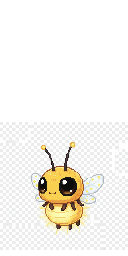
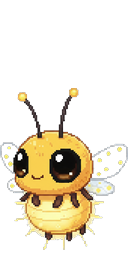
fix: 프로필 편집 저장 수정 + 호비 이미지 업데이트
- project 컬럼(string) 기준으로 읽기/쓰기 통일 (edit, detail 페이지)
- 상세페이지 캐시버스트 URL 파라미터 수정 (?t → &t)
- 관리자 is_admin 컬럼 + Storage RLS 정책 SQL 추가
- 호비 NPC 아바타 이미지 갱신

Changed region(s): [[0.0, 0.3438, 1.0, 0.9688], [0.7188, 0.9062, 0.75, 0.9375], [0.6562, 0.9375, 0.6875, 0.9688]]

diff --git a/frontend/app/dogam/[id]/page.tsx b/frontend/app/dogam/[id]/page.tsx
@@ -23,7 +23,6 @@ interface Profile {
   position: string
   field: string
   project: string
-  projects: string[]
   tmi: string
   tech_stack: string[]
   status_message: string
@@ -90,13 +89,9 @@ export default function DogamDetailPage() {
   const isOwnProfile = currentUserId === profile?.id
   const canEdit = isOwnProfile || isAdmin
 
-  // Resolve projects
-  const resolvedProjects: string[] = profile
-    ? Array.isArray(profile.projects) && profile.projects.length > 0
-      ? profile.projects
-      : profile.project
-        ? [profile.project]
-        : []
+  // Resolve projects (DB stores as comma-separated string)
+  const resolvedProjects: string[] = profile?.project
+    ? profile.project.split(', ').filter(Boolean)
     : []
 
   const emailPrefix = profile?.email ? getEmailPrefix(profile.email) : ''
@@ -104,7 +99,7 @@ export default function DogamDetailPage() {
   // Image URL with cache busting
   const getImgUrl = useCallback((dir: string) => {
     const url = getCharacterImageUrl(emailPrefix, dir)
-    return cacheBust ? `${url}?t=${cacheBust}` : url
+    return cacheBust ? `${url}&t=${cacheBust}` : url
   }, [emailPrefix, cacheBust])
 
   // Direction remapping handlers

diff --git a/frontend/app/dogam/edit/page.tsx b/frontend/app/dogam/edit/page.tsx
@@ -65,10 +65,8 @@ export default function DogamEditPage() {
       if (data) {
         setProfile(data)
         setField(data.field || '')
-        if (Array.isArray(data.projects)) {
-          setProjects(data.projects)
-        } else if (data.project && typeof data.project === 'string') {
-          setProjects(data.project ? [data.project] : [])
+        if (data.project && typeof data.project === 'string') {
+          setProjects(data.project.split(', ').filter(Boolean))
         } else {
           setProjects([])
         }
@@ -86,16 +84,22 @@ export default function DogamEditPage() {
     setSaving(true)
 
     const supabase = createClient()
-    await supabase
+    const { error } = await supabase
       .from('profiles')
       .update({
         field,
-        projects,
+        project: projects.join(', '),
         tmi,
         tech_stack: techStack,
         status_message: statusMessage,
       })
       .eq('id', profile.id)
+
+    if (error) {
+      alert('저장 실패: ' + error.message)
+      setSaving(false)
+      return
+    }
 
     setSaving(false)
     router.push(`/dogam/${profile.id}`)

diff --git a/frontend/app/dogam/page.tsx b/frontend/app/dogam/page.tsx
@@ -90,7 +90,7 @@ export default function DogamPage() {
 
   // Filtered + sorted profiles based on active tab
   const filteredProfiles = useMemo(() => {
-    if (activeTab === TAB_ALL) return sortProfiles(humanProfiles)
+    if (activeTab === TAB_ALL) return sortProfiles([...humanProfiles, ...npcProfiles])
     if (activeTab === TAB_NPC) return npcProfiles
     return sortProfiles(humanProfiles.filter((p) => p.department === activeTab))
   }, [activeTab, humanProfiles, npcProfiles])

diff --git a/frontend/lib/gameConfig.ts b/frontend/lib/gameConfig.ts
@@ -19,7 +19,7 @@ export function getEmailPrefix(email: string): string {
 }
 
 // 이미지 정규화 후 CDN 캐시 무효화용 버전
-const IMG_VERSION = '20260210c'
+const IMG_VERSION = '20260210f'
 
 export function getCharacterImageUrl(emailPrefix: string, direction: string): string {
   return `${SUPABASE_URL}/storage/v1/object/public/characters/${emailPrefix}/${direction}.png?v=${IMG_VERSION}`
